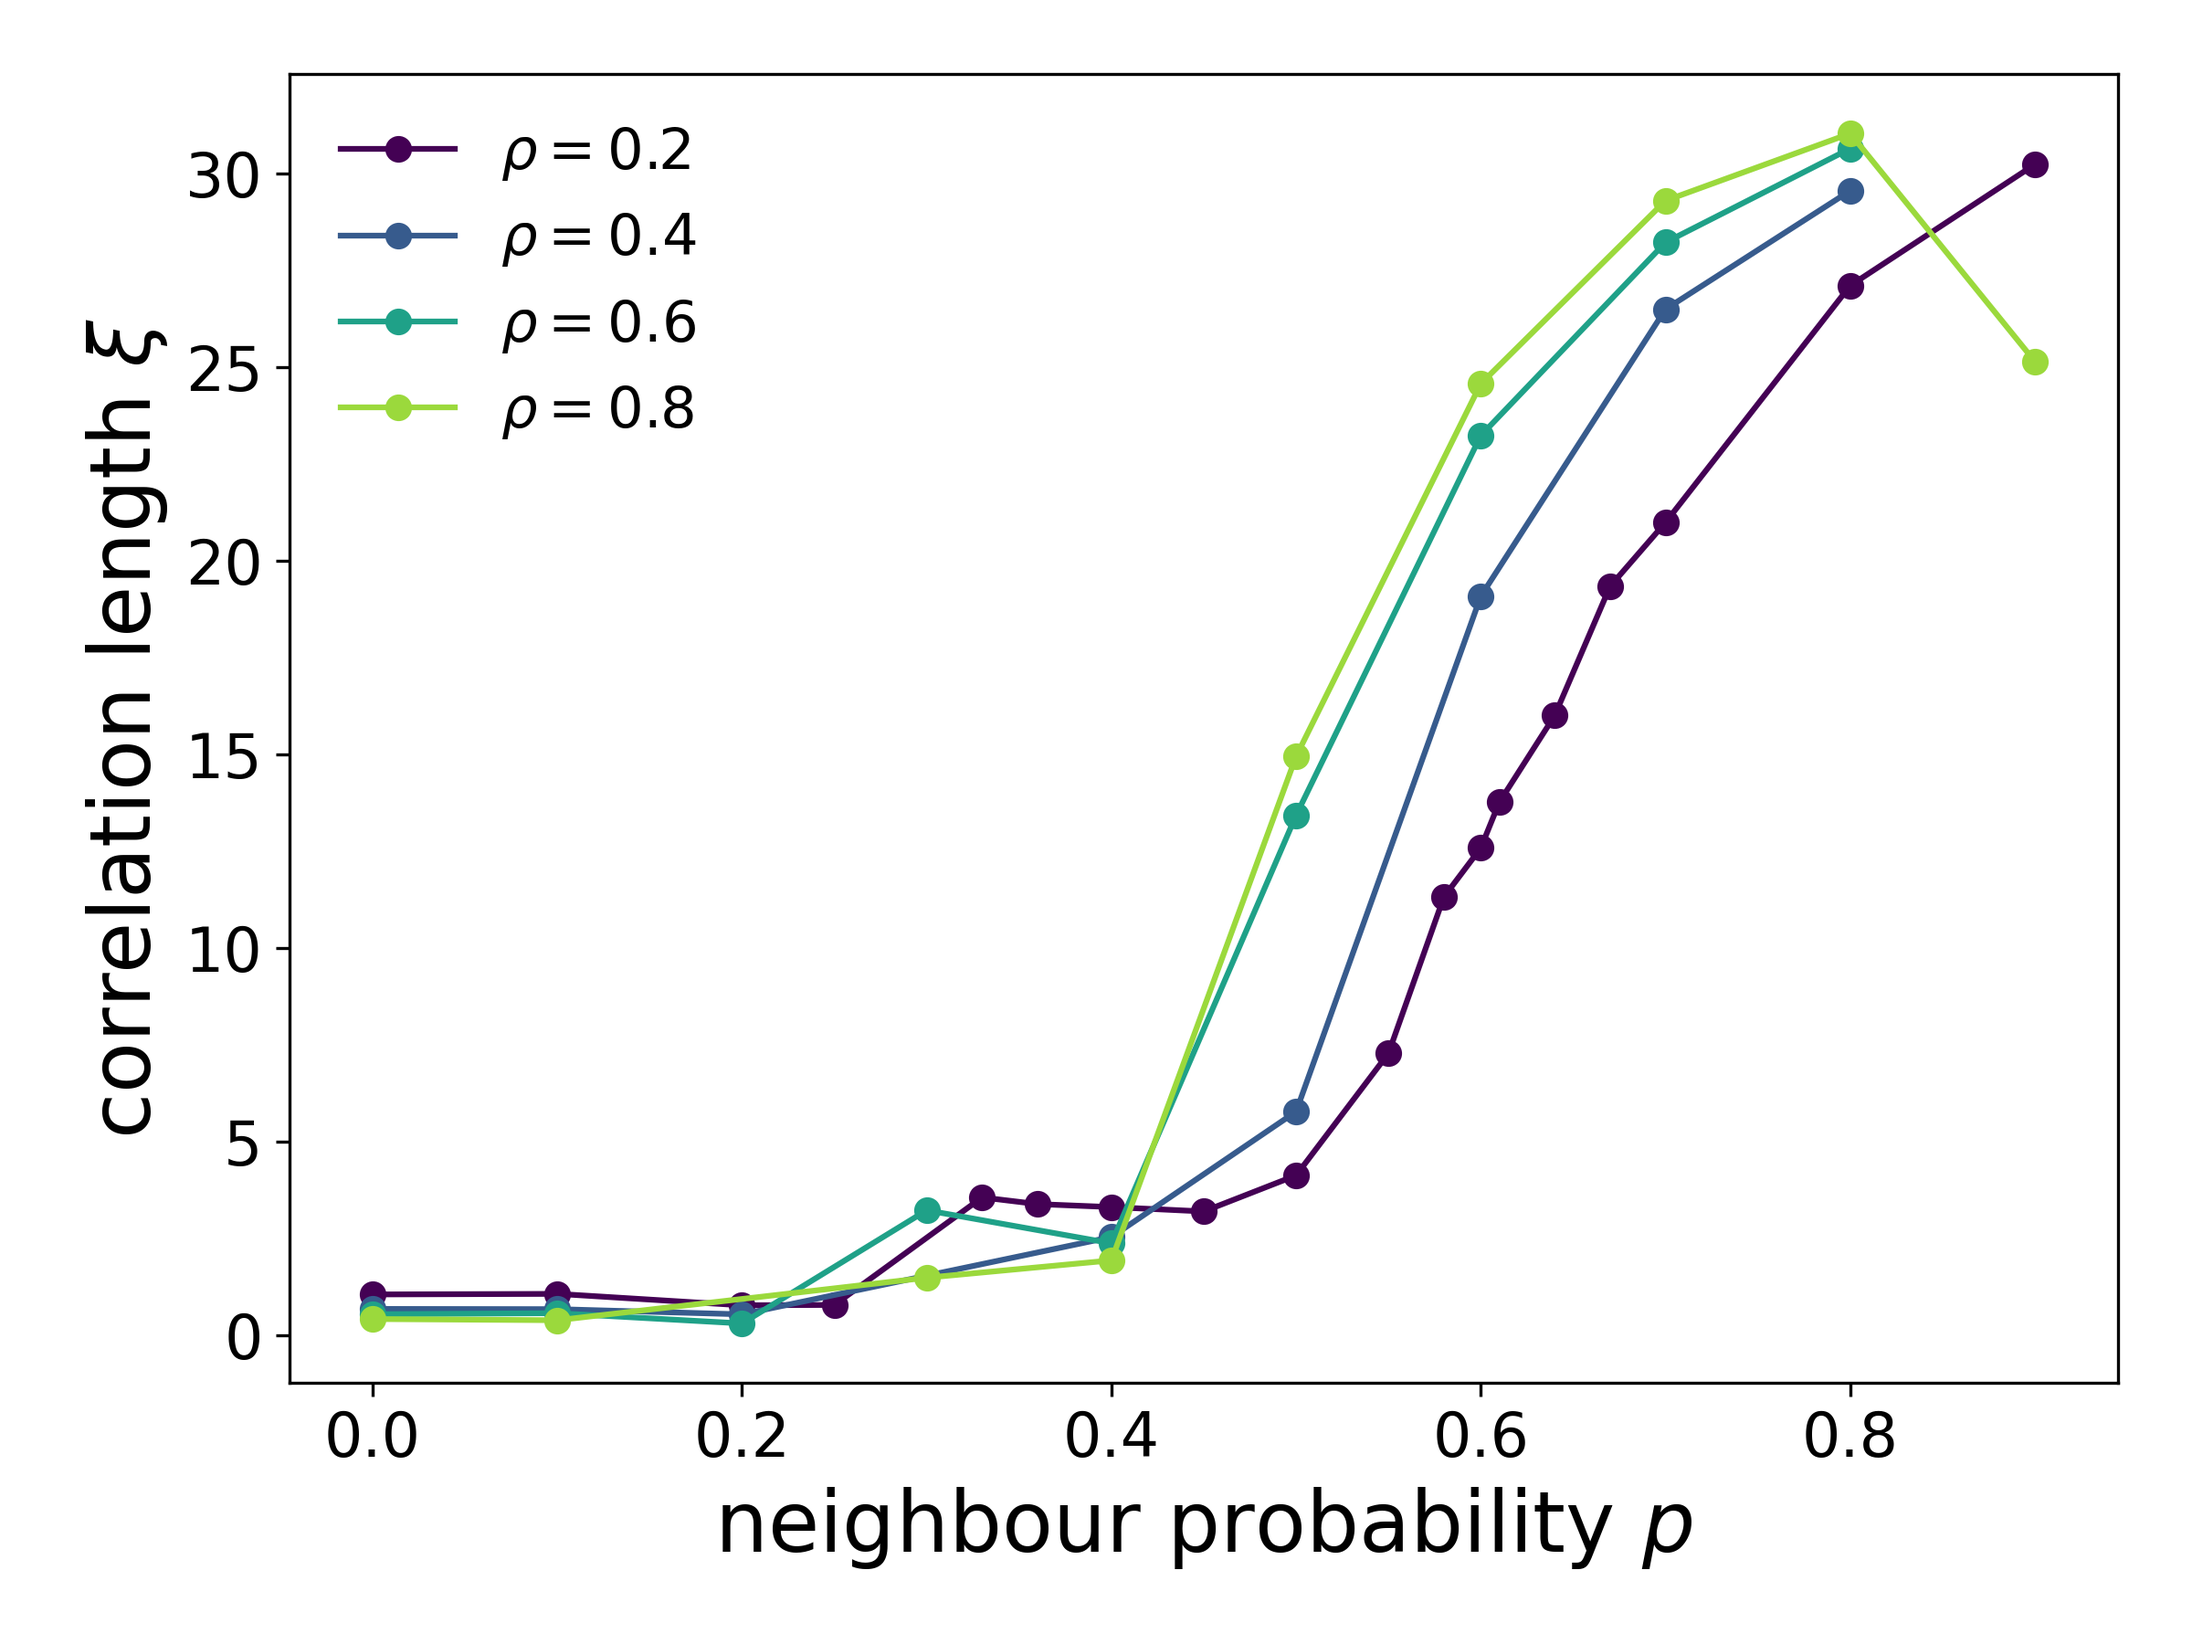
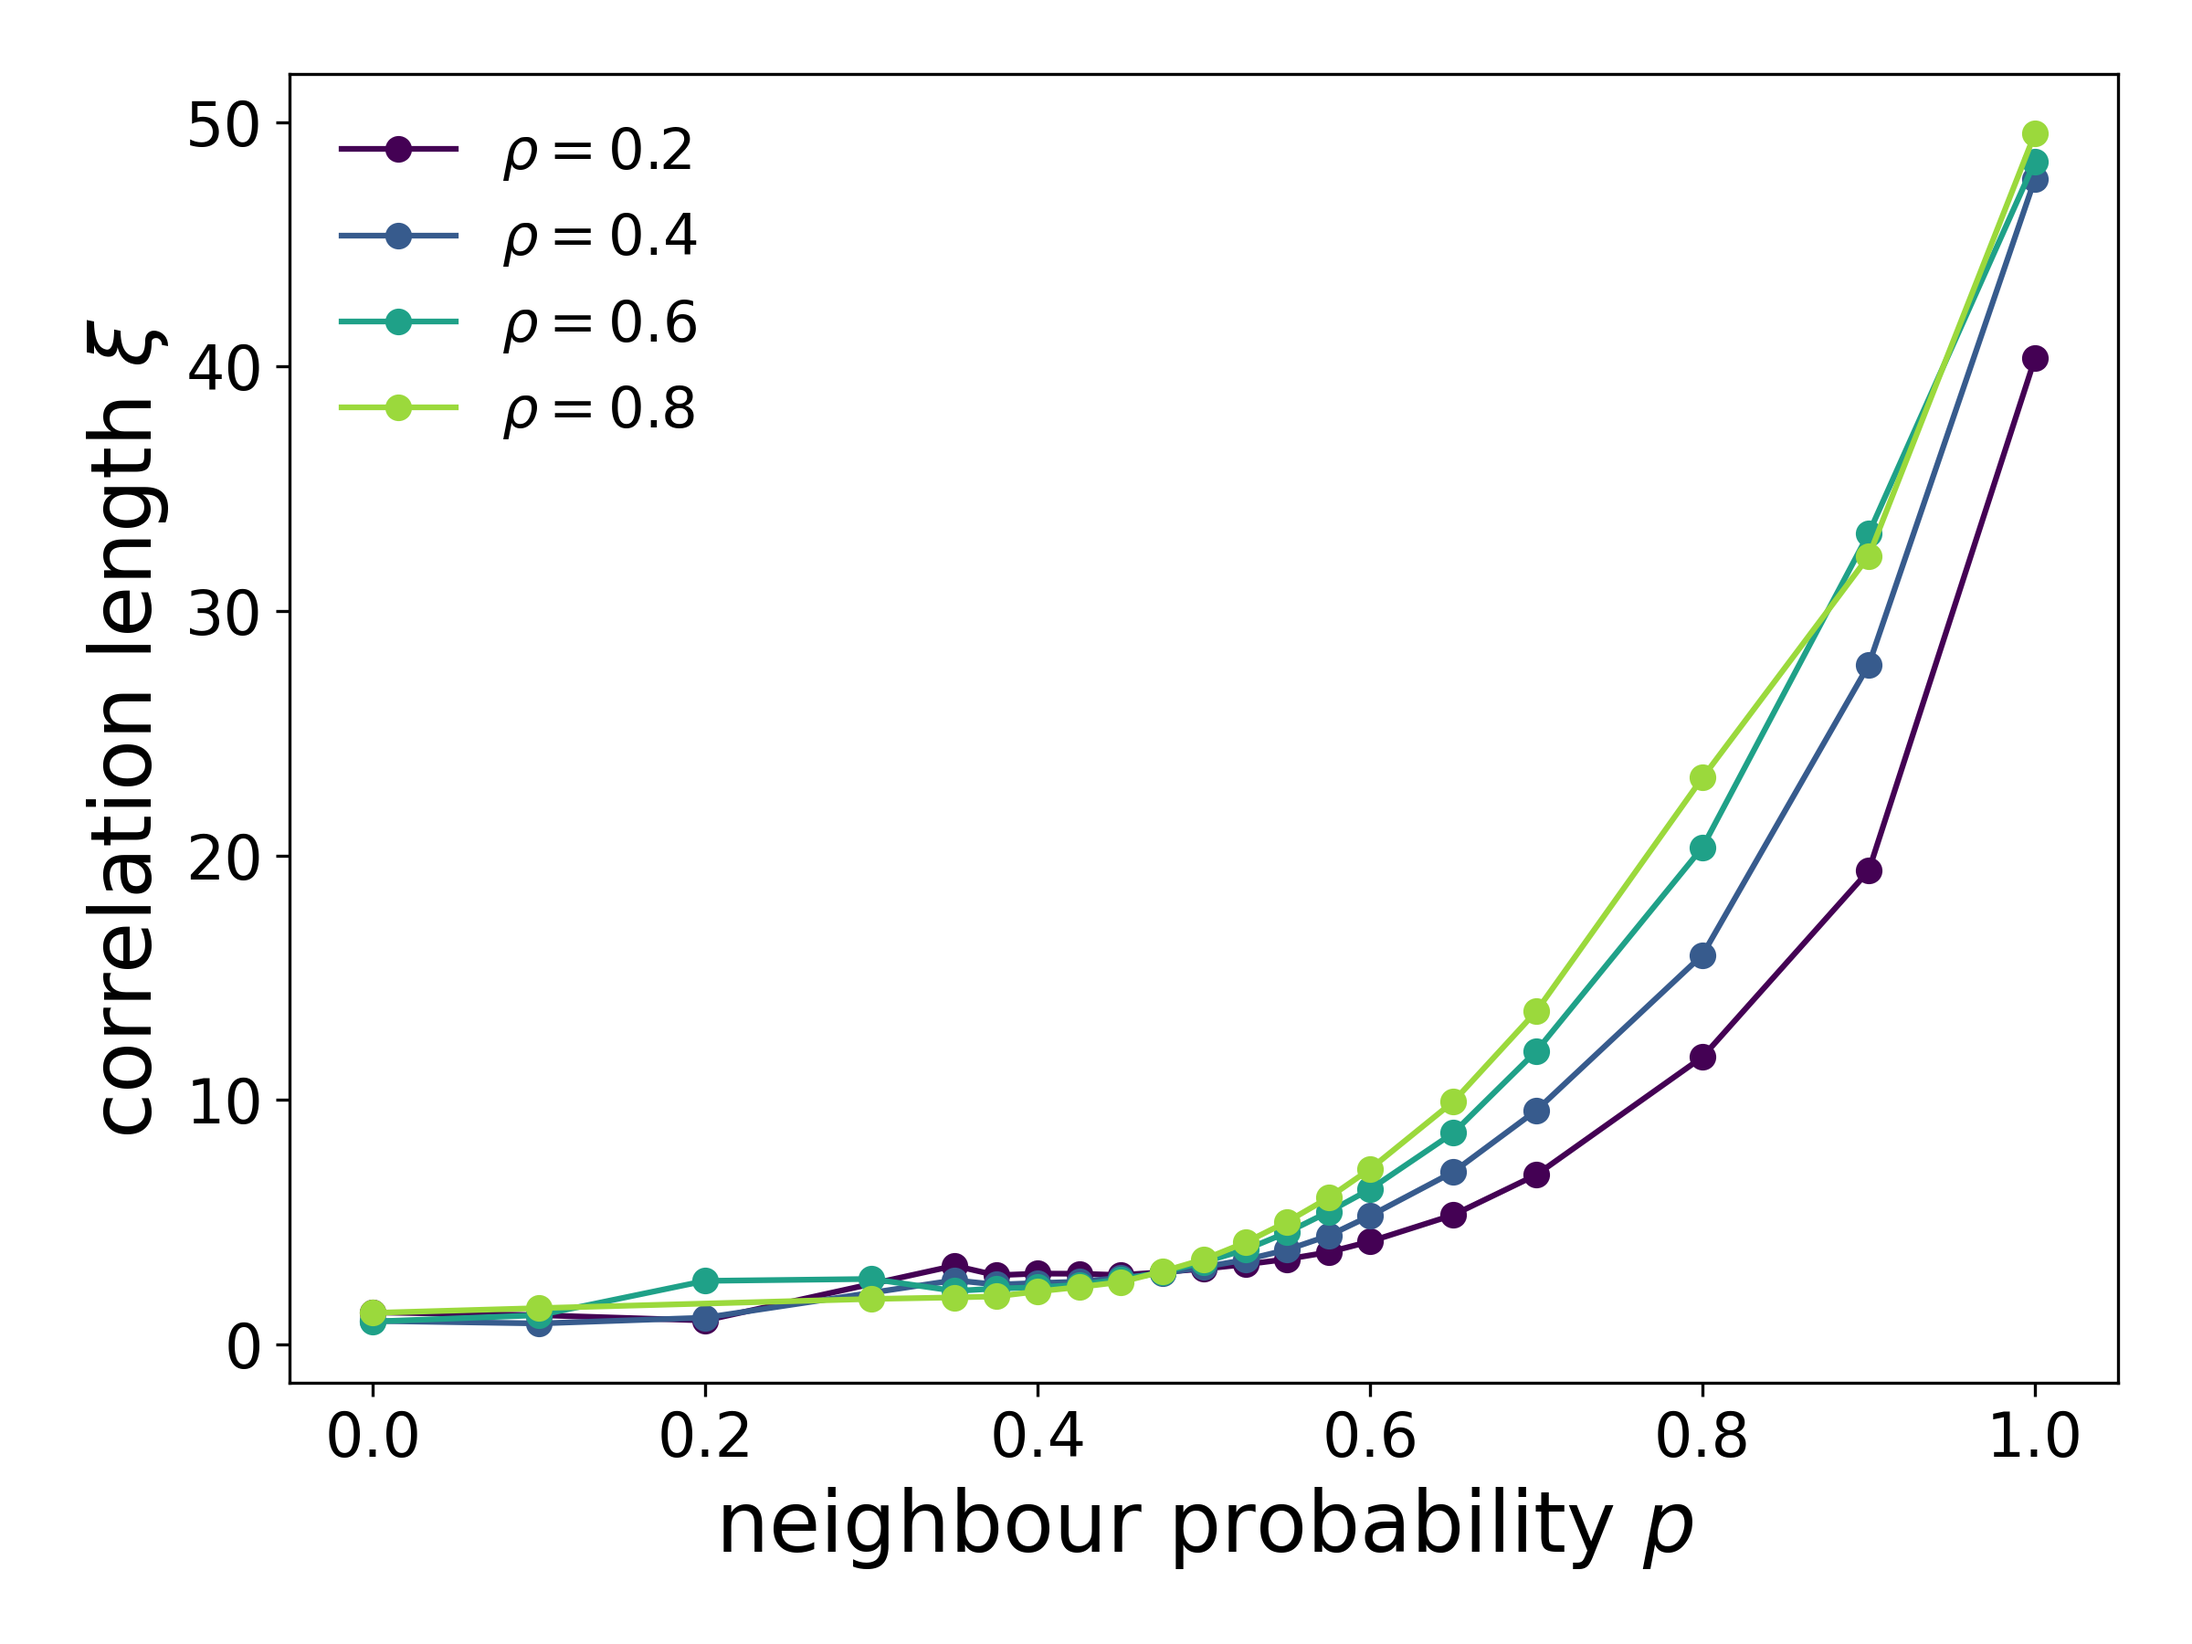
update `p` correlation length for more data

diff --git a/src/probabilisticNeighbour/plots.py b/src/probabilisticNeighbour/plots.py
@@ -76,43 +76,19 @@ def xi(snaps):
     return z[0] if len(z) else lim
 
 
-def xi_exp(snaps, c=2.5):
-    # decay rate of |C(r)| fitted from r=1; window is self-consistently ~c*xi, so it
-    # tracks xi rather than L (a window tied to L makes different boxes disagree)
+def xi_exp(snaps, rmax=6):
+    # Decay rate of |C(r)| fitted from r=1 over a short window fixed in lattice units.
+    # Neutrality (sum_r C(r) = 0) makes the tail of C an artifact of the box: at fixed p
+    # it grows with L, while r<~4 is L-independent. Only the short range is physical, so
+    # the window must not follow the tail (a self-consistent window chases it and gives
+    # xi proportional to L).
     C = correlation(snaps)
-    L = snaps[0].shape[0]
-
-    # neutrality forces C to change sign; fit only the leading constant-sign stretch
-    rsign = L // 4
-    for r in range(2, L // 4):
-        if np.sign(C[r]) != np.sign(C[1]):
-            rsign = r - 1
-            break
-    if rsign < 2:  # only C(1) survives; xi is unmeasurable at the sign-change crossover
+    r = np.arange(1, rmax + 1)
+    y = np.abs(C[1:rmax + 1])
+    if (y <= 0).any() or abs(C[2]) > abs(C[1]):
         return np.nan
-    if abs(C[2]) > abs(C[1]):  # C(1) sitting on its zero crossing: not a decaying tail
-        return np.nan
-
-    def fit(rmax):
-        rmax = min(rmax, rsign)
-        r = np.arange(1, rmax + 1)
-        y = np.abs(C[1:rmax + 1])
-        slope = np.polyfit(r, np.log(y), 1)[0]
-        return -1.0 / slope if slope < 0 else np.nan
-
-    v = fit(6)
-    for _ in range(20):
-        if not np.isfinite(v):
-            return np.nan
-        nv = fit(int(np.clip(round(c * v), 2, L // 4)))
-        if not np.isfinite(nv):
-            return np.nan
-        converged = abs(nv - v) < 1e-3
-        v = nv
-        if converged:
-            break
-    # a length beyond L/4 is not resolvable in the box; don't report it
-    return v if v < L / 4 else np.nan
+    slope = np.polyfit(r, np.log(y), 1)[0]
+    return -1.0 / slope if slope < 0 else np.nan
 
 
 def plot_snapshots(L=128, rhos=(0.2, 0.6), ps=(0.0, 0.5, 1.0)):
@@ -156,10 +132,10 @@ def plot_correlation_length(L=128, rhos=(0.2, 0.4, 0.6, 0.8),
     plt.close(fig)
 
 
-def plot_critical_scaling(rho=0.2, Ls=(64, 128, 256, 512), fitL=512,
+def plot_critical_scaling(rho=0.2, Ls=(64, 128, 256, 512), fitL=256,
                           ps=(0.30, 0.36, 0.40, 0.42, 0.43, 0.44, 0.45, 0.46, 0.47, 0.48,
                               0.49, 0.50, 0.51, 0.52, 0.53, 0.54, 0.55, 0.56, 0.57, 0.58,
-                              0.60, 0.61, 0.64, 0.67, 0.70)):
+                              0.60, 0.61, 0.64, 0.67, 0.70, 0.80, 0.90, 1.00)):
     data = {}
     for L in Ls:
         xs, ys = [], []
@@ -180,7 +156,7 @@ def plot_critical_scaling(rho=0.2, Ls=(64, 128, 256, 512), fitL=512,
     # a power law cannot be fitted through a saturating curve; refuse rather than rail
     fitted = len(fx) >= 4
     if fitted:
-        pcs, nus = np.arange(fx.max() + 0.005, 0.90, 0.002), np.arange(0.3, 3.0, 0.01)
+        pcs, nus = np.arange(fx.max() + 0.005, 1.60, 0.002), np.arange(0.3, 3.0, 0.01)
         best = (1e18, 0.0, 0.0)
         for pc in pcs:
             for nu in nus:
